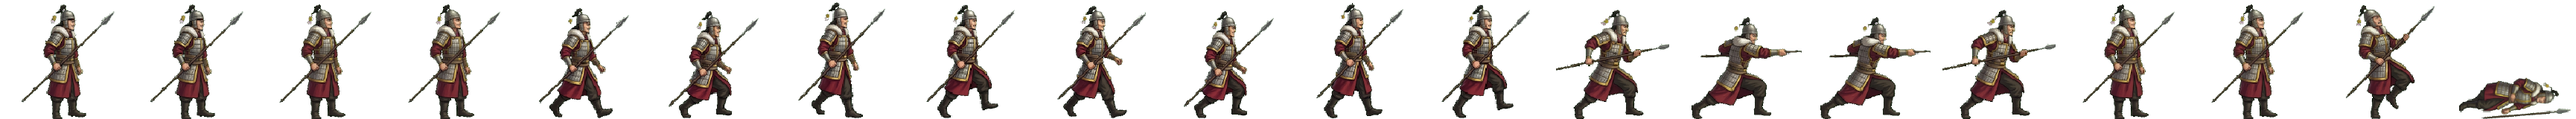
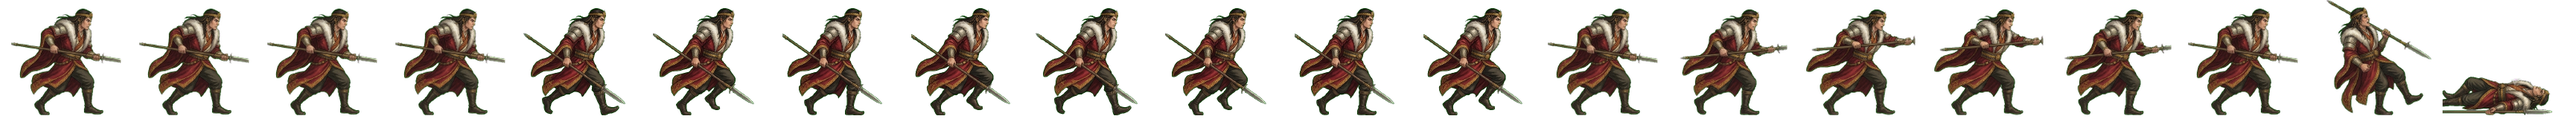
전투 띠 다시: 혁거세·대소 초상대로 (흰 비단 옷·옥 머리띠 / 흰 털 깃·붉은 옷·금 머리띠 · 투구를 벗김) (형 11-08)
Claude-Session: https://claude.ai/code/session_01TRiuNAG8xSjdmjCFpc8Rd5

diff --git a/src/realm/data/art.ts b/src/realm/data/art.ts
@@ -478,10 +478,10 @@ export const GEN_ANIM: Readonly<Partial<Record<string, { ar: number; body: numbe
   aryeong: { ar: 157 / 160, body: 0.900 }, // 11-08 초상대로 다시 (형: 「투구 쓰고 원본과 다르다」 · 제미나이 걷기 4×2 + 동작 4×2 → 20컷 · assets_src/realm/gemini/generals2) · 전투 옷은 더 드러나게 (형 11-08)
   haedal: { ar: 149 / 160, body: 0.900, bow: true }, // 11-08 초상대로 다시 (형: 「투구 쓰고 원본과 다르다」 · 제미나이 걷기 4×2 + 동작 4×2 → 20컷 · assets_src/realm/gemini/generals2) · 전투 옷은 더 드러나게 (형 11-08)
   songbi: { ar: 150 / 160, body: 0.900, bow: true }, // 11-08 초상대로 다시 (형: 「투구 쓰고 원본과 다르다」 · 제미나이 걷기 4×2 + 동작 4×2 → 20컷 · assets_src/realm/gemini/generals2) · 전투 옷은 더 드러나게 (형 11-08)
-  hyeokgeose: { ar: 147 / 160, body: 0.921 }, // 11-04 제 띠 (roqkfeke12 u/0 자동 모드 · 흰 비단·보랏빛 깃·곡옥·긴 머리 · 쇠투구)
+  hyeokgeose: { ar: 153 / 160, body: 0.906 }, // 11-08 초상대로 다시 (형: 「투구 쓰고 원본과 다르다」 · 제미나이 걷기 4×2 + 동작 4×2 → 20컷 · assets_src/realm/gemini/generals2)
   oi: { ar: 159 / 160, body: 0.961 }, // 11-04 제 띠 (u/0 · 깃털 다발 쇠투구·붉은 테 미늘·짧은 수염 · 창)
   mari: { ar: 161 / 160, body: 0.968 }, // 11-04 제 띠 (u/0 · 상투·머리띠·콧등 칼자국·밧줄 타래·푸른 삼베 · 맞음 컷은 창을 둘 쥐고 나와 막기 컷으로 · 찌르기 창끝이 조금 잘림)
-  daeso: { ar: 173 / 160, body: 0.955 }, // 11-04 제 띠 (u/0 · 금 드리개 쇠투구·흰 털 깃·붉은 비단·금테 미늘 · 막기 컷이 창 둘이라 찌르기는 겨눔·찌름·제자리로)
+  daeso: { ar: 172 / 160, body: 0.900 }, // 11-08 초상대로 다시 (형: 「투구 쓰고 원본과 다르다」 · 제미나이 걷기 4×2 + 동작 4×2 → 20컷 · assets_src/realm/gemini/generals2)
   eureum: { ar: 147 / 160, body: 0.907 }, // 11-04 제 띠 (u/0 · 마젠타 바탕 · 검은 관·염소수염·녹색 두루마기·가죽 갑옷·대쪽 두루마리 · 막기 컷은 칼이 휘어 빼고 · 내려베기 칼끝이 살짝 휨)
   ogan: { ar: 162 / 160, body: 0.907, bow: true }, // 11-04 제 띠 (u/0 · 높은 상투·턱수염·쇠 미늘·남색 옷·맥궁 · 첫 장은 병사 베옷을 베끼고 글자 꼬리표 → 「모든 컷 같은 옷」을 못 박아 새 대화로)
   damul: { ar: 162 / 160, body: 0.955, bow: true }, // 11-04 제 띠 (u/0 · 깃털 쇠투구(금관 아님)·희끗한 긴 수염·범 가죽 망토·자줏빛 비단·맥궁)

diff --git a/src/ui/realm/battle-strikes.ts b/src/ui/realm/battle-strikes.ts
@@ -139,8 +139,8 @@ const CONTACT: Readonly<Record<string, [number, number, number]>> = {
   marine: [15, .99, .40], militia: [14, .98, .33],
   'gen-g-spear': [15, .99, .32], 'gen-g-sword': [16, .99, .33], 'gen-w-spear': [14, .98, .56],
   'gen-mount': [15, .98, .22], 'gen-ara': [14, 0.76, 0.94], 'gen-aryeong': [14, 0.94, 0.26],
-  'gen-daeso': [14, .98, .43], 'gen-eureum': [14, .95, .13], 'gen-gamsil': [14, .92, .69],
-  'gen-haebi': [14, 0.87, 0.53], 'gen-heo': [14, .97, .38], 'gen-hyeokgeose': [14, .97, .21],
+  'gen-daeso': [14, 0.95, 0.34], 'gen-eureum': [14, .95, .13], 'gen-gamsil': [14, .92, .69],
+  'gen-haebi': [14, 0.87, 0.53], 'gen-heo': [14, .97, .38], 'gen-hyeokgeose': [14, 0.83, 0.94],
   'gen-hyeopbo': [14, .93, .21], 'gen-malgalgi': [14, 0.88, 0.28], 'gen-mari': [14, .98, .47],
   'gen-oi': [14, .98, .48], 'gen-onjo': [15, .98, .33], 'gen-soebi': [14, 0.80, 0.95],
   'gen-soseono': [14, 0.92, 0.31],
